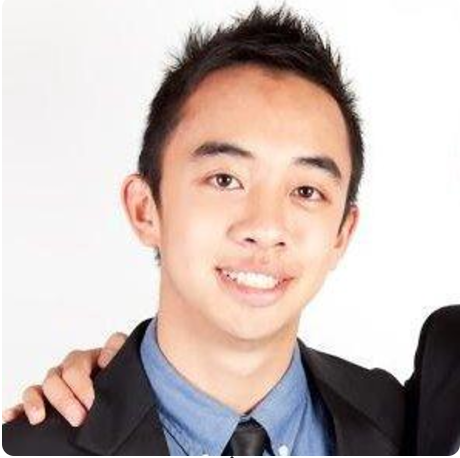
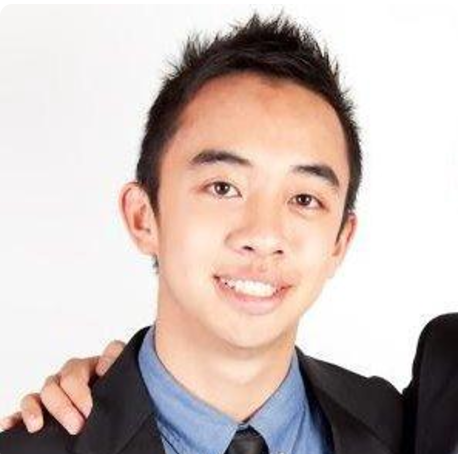
Initial changes for intro portion
- Change background image
- Add self portrait
- Change intro text
- CSS styling for intro-text portion

Changed region(s): [[0.0, 0.0, 1.0, 1.0], [0.2445, 0.3392, 0.3668, 0.6167], [0.3668, 0.6167, 0.3974, 0.6476]]

diff --git a/css/agency.min.css b/css/agency.min.css
@@ -1,0 +1,5 @@
+/*!
+ * Start Bootstrap - Agency v3.3.7+1 (http://startbootstrap.com/template-overviews/agency)
+ * Copyright 2013-2016 Start Bootstrap
+ * Licensed under MIT (https://github.com/BlackrockDigital/startbootstrap/blob/gh-pages/LICENSE)
+ */body{overflow-x:hidden;font-family:"Roboto Slab","Helvetica Neue",Helvetica,Arial,sans-serif}.text-muted{color:#777}.text-primary{color:#fed136}#justin-face{border-radius:50%;height:30px;width:30px}p{font-size:14px;line-height:1.75}p.large{font-size:16px}a,a.active,a:active,a:focus,a:hover{outline:0}a{color:#fed136}a.active,a:active,a:focus,a:hover{color:#fec503}h1,h2,h3,h4,h5,h6{font-family:Montserrat,"Helvetica Neue",Helvetica,Arial,sans-serif;text-transform:uppercase;font-weight:700}.img-centered{margin:0 auto}.bg-light-gray{background-color:#eee}.bg-darkest-gray{background-color:#222}.btn-primary{color:#fff;background-color:#fed136;border-color:#fed136;font-family:Montserrat,"Helvetica Neue",Helvetica,Arial,sans-serif;text-transform:uppercase;font-weight:700}.btn-primary.active,.btn-primary:active,.btn-primary:focus,.btn-primary:hover,.open .dropdown-toggle.btn-primary{color:#fff;background-color:#fec503;border-color:#f6bf01}.btn-primary.active,.btn-primary:active,.open .dropdown-toggle.btn-primary{background-image:none}.btn-primary.disabled,.btn-primary.disabled.active,.btn-primary.disabled:active,.btn-primary.disabled:focus,.btn-primary.disabled:hover,.btn-primary[disabled],.btn-primary[disabled].active,.btn-primary[disabled]:active,.btn-primary[disabled]:focus,.btn-primary[disabled]:hover,fieldset[disabled] .btn-primary,fieldset[disabled] .btn-primary.active,fieldset[disabled] .btn-primary:active,fieldset[disabled] .btn-primary:focus,fieldset[disabled] .btn-primary:hover{background-color:#fed136;border-color:#fed136}.btn-primary .badge{color:#fed136;background-color:#fff}.btn-xl{color:#fff;background-color:#fed136;border-color:#fed136;font-family:Montserrat,"Helvetica Neue",Helvetica,Arial,sans-serif;text-transform:uppercase;font-weight:700;border-radius:3px;font-size:18px;padding:20px 40px}.btn-xl.active,.btn-xl:active,.btn-xl:focus,.btn-xl:hover,.open .dropdown-toggle.btn-xl{color:#fff;background-color:#fec503;border-color:#f6bf01}.btn-xl.active,.btn-xl:active,.open .dropdown-toggle.btn-xl{background-image:none}.btn-xl.disabled,.btn-xl.disabled.active,.btn-xl.disabled:active,.btn-xl.disabled:focus,.btn-xl.disabled:hover,.btn-xl[disabled],.btn-xl[disabled].active,.btn-xl[disabled]:active,.btn-xl[disabled]:focus,.btn-xl[disabled]:hover,fieldset[disabled] .btn-xl,fieldset[disabled] .btn-xl.active,fieldset[disabled] .btn-xl:active,fieldset[disabled] .btn-xl:focus,fieldset[disabled] .btn-xl:hover{background-color:#fed136;border-color:#fed136}.btn-xl .badge{color:#fed136;background-color:#fff}.navbar-custom{background-color:#222;border-color:transparent}.navbar-custom .navbar-brand{color:#fed136;font-family:"Kaushan Script","Helvetica Neue",Helvetica,Arial,cursive}.navbar-custom .navbar-brand.active,.navbar-custom .navbar-brand:active,.navbar-custom .navbar-brand:focus,.navbar-custom .navbar-brand:hover{color:#fec503}.navbar-custom .navbar-collapse{border-color:rgba(255,255,255,.02)}.navbar-custom .navbar-toggle{background-color:#fed136;border-color:#fed136;font-family:Montserrat,"Helvetica Neue",Helvetica,Arial,sans-serif;text-transform:uppercase;color:#fff;font-size:12px}.navbar-custom .navbar-toggle:focus,.navbar-custom .navbar-toggle:hover{background-color:#fed136}.navbar-custom .nav li a{font-family:Montserrat,"Helvetica Neue",Helvetica,Arial,sans-serif;text-transform:uppercase;font-weight:400;letter-spacing:1px;color:#fff}.navbar-custom .nav li a:focus,.navbar-custom .nav li a:hover{color:#fed136;outline:0}.navbar-custom .navbar-nav>.active>a{border-radius:0;color:#fff;background-color:#fed136}.navbar-custom .navbar-nav>.active>a:focus,.navbar-custom .navbar-nav>.active>a:hover{color:#fff;background-color:#fec503}@media (min-width:768px){.navbar-custom{background-color:transparent;padding:25px 0;-webkit-transition:padding .3s;-moz-transition:padding .3s;transition:padding .3s;border:none}.navbar-custom .navbar-brand{font-size:2em;-webkit-transition:all .3s;-moz-transition:all .3s;transition:all .3s}.navbar-custom .navbar-nav>.active>a{border-radius:3px}}@media (min-width:768px){.navbar-custom.affix{background-color:#222;padding:10px 0}.navbar-custom.affix .navbar-brand{font-size:1.5em}}header{background-image:url(../img/header-bg.jpg);background-repeat:no-repeat;background-attachment:scroll;background-position:center center;-webkit-background-size:cover;-moz-background-size:cover;background-size:cover;-o-background-size:cover;text-align:center;color:#fff}header .intro-text{padding-top:100px;padding-bottom:50px}header .intro-text .intro-lead-in{font-family:"Droid Serif","Helvetica Neue",Helvetica,Arial,sans-serif;font-style:italic;font-size:22px;line-height:22px;margin-bottom:25px}header .intro-text .intro-heading{font-family:Montserrat,"Helvetica Neue",Helvetica,Arial,sans-serif;text-transform:uppercase;font-weight:700;font-size:50px;line-height:50px;margin-bottom:25px}@media (min-width:768px){header .intro-text{padding-top:300px;padding-bottom:200px}header .intro-text .intro-lead-in{font-family:"Droid Serif","Helvetica Neue",Helvetica,Arial,sans-serif;font-style:italic;font-size:40px;line-height:40px;margin-bottom:25px}header .intro-text .intro-heading{font-family:Montserrat,"Helvetica Neue",Helvetica,Arial,sans-serif;text-transform:uppercase;font-weight:700;font-size:75px;line-height:75px;margin-bottom:50px}}section{padding:100px 0}section h2.section-heading{font-size:40px;margin-top:0;margin-bottom:15px}section h3.section-subheading{font-size:16px;font-family:"Droid Serif","Helvetica Neue",Helvetica,Arial,sans-serif;text-transform:none;font-style:italic;font-weight:400;margin-bottom:75px}@media (min-width:768px){section{padding:150px 0}}.service-heading{margin:15px 0;text-transform:none}#portfolio .portfolio-item{margin:0 0 15px;right:0}#portfolio .portfolio-item .portfolio-link{display:block;position:relative;max-width:400px;margin:0 auto}#portfolio .portfolio-item .portfolio-link .portfolio-hover{background:rgba(254,209,54,.9);position:absolute;width:100%;height:100%;opacity:0;transition:all ease .5s;-webkit-transition:all ease .5s;-moz-transition:all ease .5s}#portfolio .portfolio-item .portfolio-link .portfolio-hover:hover{opacity:1}#portfolio .portfolio-item .portfolio-link .portfolio-hover .portfolio-hover-content{position:absolute;width:100%;height:20px;font-size:20px;text-align:center;top:50%;margin-top:-12px;color:#fff}#portfolio .portfolio-item .portfolio-link .portfolio-hover .portfolio-hover-content i{margin-top:-12px}#portfolio .portfolio-item .portfolio-link .portfolio-hover .portfolio-hover-content h3,#portfolio .portfolio-item .portfolio-link .portfolio-hover .portfolio-hover-content h4{margin:0}#portfolio .portfolio-item .portfolio-caption{max-width:400px;margin:0 auto;background-color:#fff;text-align:center;padding:25px}#portfolio .portfolio-item .portfolio-caption h4{text-transform:none;margin:0}#portfolio .portfolio-item .portfolio-caption p{font-family:"Droid Serif","Helvetica Neue",Helvetica,Arial,sans-serif;font-style:italic;font-size:16px;margin:0}#portfolio *{z-index:2}@media (min-width:767px){#portfolio .portfolio-item{margin:0 0 30px}}.timeline{list-style:none;padding:0;position:relative}.timeline:before{top:0;bottom:0;position:absolute;content:"";width:2px;background-color:#f1f1f1;left:40px;margin-left:-1.5px}.timeline>li{margin-bottom:50px;position:relative;min-height:50px}.timeline>li:after,.timeline>li:before{content:" ";display:table}.timeline>li:after{clear:both}.timeline>li .timeline-panel{width:100%;float:right;padding:0 20px 0 100px;position:relative;text-align:left}.timeline>li .timeline-panel:before{border-left-width:0;border-right-width:15px;left:-15px;right:auto}.timeline>li .timeline-panel:after{border-left-width:0;border-right-width:14px;left:-14px;right:auto}.timeline>li .timeline-image{left:0;margin-left:0;width:80px;height:80px;position:absolute;z-index:100;background-color:#fed136;color:#fff;border-radius:100%;border:7px solid #f1f1f1;text-align:center}.timeline>li .timeline-image h4{font-size:10px;margin-top:12px;line-height:14px}.timeline>li.timeline-inverted>.timeline-panel{float:right;text-align:left;padding:0 20px 0 100px}.timeline>li.timeline-inverted>.timeline-panel:before{border-left-width:0;border-right-width:15px;left:-15px;right:auto}.timeline>li.timeline-inverted>.timeline-panel:after{border-left-width:0;border-right-width:14px;left:-14px;right:auto}.timeline>li:last-child{margin-bottom:0}.timeline .timeline-heading h4{margin-top:0;color:inherit}.timeline .timeline-heading h4.subheading{text-transform:none}.timeline .timeline-body>p,.timeline .timeline-body>ul{margin-bottom:0}@media (min-width:768px){.timeline:before{left:50%}.timeline>li{margin-bottom:100px;min-height:100px}.timeline>li .timeline-panel{width:41%;float:left;padding:0 20px 20px 30px;text-align:right}.timeline>li .timeline-image{width:100px;height:100px;left:50%;margin-left:-50px}.timeline>li .timeline-image h4{font-size:13px;margin-top:16px;line-height:18px}.timeline>li.timeline-inverted>.timeline-panel{float:right;text-align:left;padding:0 30px 20px 20px}}@media (min-width:992px){.timeline>li{min-height:150px}.timeline>li .timeline-panel{padding:0 20px 20px}.timeline>li .timeline-image{width:150px;height:150px;margin-left:-75px}.timeline>li .timeline-image h4{font-size:18px;margin-top:30px;line-height:26px}.timeline>li.timeline-inverted>.timeline-panel{padding:0 20px 20px}}@media (min-width:1200px){.timeline>li{min-height:170px}.timeline>li .timeline-panel{padding:0 20px 20px 100px}.timeline>li .timeline-image{width:170px;height:170px;margin-left:-85px}.timeline>li .timeline-image h4{margin-top:40px}.timeline>li.timeline-inverted>.timeline-panel{padding:0 100px 20px 20px}}.team-member{text-align:center;margin-bottom:50px}.team-member img{margin:0 auto;border:7px solid #fff}.team-member h4{margin-top:25px;margin-bottom:0;text-transform:none}.team-member p{margin-top:0}aside.clients img{margin:50px auto}section#contact{background-color:#222;background-image:url(../img/map-image.png);background-position:center;background-repeat:no-repeat}section#contact .section-heading{color:#fff}section#contact .form-group{margin-bottom:25px}section#contact .form-group input,section#contact .form-group textarea{padding:20px}section#contact .form-group input.form-control{height:auto}section#contact .form-group textarea.form-control{height:236px}section#contact .form-control:focus{border-color:#fed136;box-shadow:none}section#contact ::-webkit-input-placeholder{font-family:Montserrat,"Helvetica Neue",Helvetica,Arial,sans-serif;text-transform:uppercase;font-weight:700;color:#eee}section#contact :-moz-placeholder{font-family:Montserrat,"Helvetica Neue",Helvetica,Arial,sans-serif;text-transform:uppercase;font-weight:700;color:#eee}section#contact ::-moz-placeholder{font-family:Montserrat,"Helvetica Neue",Helvetica,Arial,sans-serif;text-transform:uppercase;font-weight:700;color:#eee}section#contact :-ms-input-placeholder{font-family:Montserrat,"Helvetica Neue",Helvetica,Arial,sans-serif;text-transform:uppercase;font-weight:700;color:#eee}section#contact .text-danger{color:#e74c3c}footer{padding:25px 0;text-align:center}footer span.copyright{line-height:40px;font-family:Montserrat,"Helvetica Neue",Helvetica,Arial,sans-serif;text-transform:uppercase;text-transform:none}footer ul.quicklinks{margin-bottom:0;line-height:40px;font-family:Montserrat,"Helvetica Neue",Helvetica,Arial,sans-serif;text-transform:uppercase;text-transform:none}ul.social-buttons{margin-bottom:0}ul.social-buttons li a{display:block;background-color:#222;height:40px;width:40px;border-radius:100%;font-size:20px;line-height:40px;color:#fff;outline:0;-webkit-transition:all .3s;-moz-transition:all .3s;transition:all .3s}ul.social-buttons li a:active,ul.social-buttons li a:focus,ul.social-buttons li a:hover{background-color:#fed136}.btn.active,.btn:active,.btn:active:focus,.btn:focus{outline:0}.portfolio-modal .modal-dialog{margin:0;height:100%;width:auto}.portfolio-modal .modal-content{border-radius:0;background-clip:border-box;-webkit-box-shadow:none;box-shadow:none;border:none;min-height:100%;padding:100px 0;text-align:center}.portfolio-modal .modal-content h2{margin-bottom:15px;font-size:3em}.portfolio-modal .modal-content p{margin-bottom:30px}.portfolio-modal .modal-content p.item-intro{margin:20px 0 30px;font-family:"Droid Serif","Helvetica Neue",Helvetica,Arial,sans-serif;font-style:italic;font-size:16px}.portfolio-modal .modal-content ul.list-inline{margin-bottom:30px;margin-top:0}.portfolio-modal .modal-content img{margin-bottom:30px}.portfolio-modal .close-modal{position:absolute;width:75px;height:75px;background-color:transparent;top:25px;right:25px;cursor:pointer}.portfolio-modal .close-modal:hover{opacity:.3}.portfolio-modal .close-modal .lr{height:75px;width:1px;margin-left:35px;background-color:#222;transform:rotate(45deg);-ms-transform:rotate(45deg);-webkit-transform:rotate(45deg);z-index:1051}.portfolio-modal .close-modal .lr .rl{height:75px;width:1px;background-color:#222;transform:rotate(90deg);-ms-transform:rotate(90deg);-webkit-transform:rotate(90deg);z-index:1052}.portfolio-modal .modal-backdrop{opacity:0;display:none}::-moz-selection{text-shadow:none;background:#fed136}::selection{text-shadow:none;background:#fed136}img::selection{background:0 0}img::-moz-selection{background:0 0}body{webkit-tap-highlight-color:#fed136}

diff --git a/templates/index.html b/templates/index.html
@@ -11,25 +11,15 @@
 
     <title>Justin Ma</title>
 
-    <!-- Bootstrap Core CSS -->
-    <link href="static/css/bootstrap.min.css" rel="stylesheet">
+    <link href="static/css/bootstrap.css" rel="stylesheet">
 
-    <!-- Custom Fonts -->
-    <link href="static/css/font-awesome.min.css" rel="stylesheet" type="text/css">
+    <link href="static/css/font-awesome.css" rel="stylesheet" type="text/css">
     <link href="https://fonts.googleapis.com/css?family=Montserrat:400,700" rel="stylesheet" type="text/css">
     <link href='https://fonts.googleapis.com/css?family=Kaushan+Script' rel='stylesheet' type='text/css'>
     <link href='https://fonts.googleapis.com/css?family=Droid+Serif:400,700,400italic,700italic' rel='stylesheet' type='text/css'>
     <link href='https://fonts.googleapis.com/css?family=Roboto+Slab:400,100,300,700' rel='stylesheet' type='text/css'>
 
-    <!-- Theme CSS -->
-    <link href="static/css/agency.min.css" rel="stylesheet">
-
-    <!-- HTML5 Shim and Respond.js IE8 support of HTML5 elements and media queries -->
-    <!-- WARNING: Respond.js doesn't work if you view the page via file:// -->
-    <!--[if lt IE 9]>
-        <script src="https://oss.maxcdn.com/libs/html5shiv/3.7.0/html5shiv.js" integrity="sha384-0s5Pv64cNZJieYFkXYOTId2HMA2Lfb6q2nAcx2n0RTLUnCAoTTsS0nKEO27XyKcY" crossorigin="anonymous"></script>
-        <script src="https://oss.maxcdn.com/libs/respond.js/1.4.2/respond.min.js" integrity="sha384-ZoaMbDF+4LeFxg6WdScQ9nnR1QC2MIRxA1O9KWEXQwns1G8UNyIEZIQidzb0T1fo" crossorigin="anonymous"></script>
-    <![endif]-->
+    <link href="static/css/agency.css" rel="stylesheet">
 
     <link rel="icon" type="image/png" href="static/img/penguin.png">
 
@@ -71,18 +61,16 @@
                     </li>
                 </ul>
             </div>
-            <!-- /.navbar-collapse -->
         </div>
-        <!-- /.container-fluid -->
     </nav>
 
     <!-- Header -->
-    <header>
+    <header>  
         <div class="container">
             <div class="intro-text">
                 <img id="justin-face" src="static/img/me.png">
-                <div class="intro-lead-in">Welcome To Our Studio!</div>
-                <div class="intro-heading">It's Nice To Meet You</div>
+                <!--<div class="intro-heading">Justin Ma</div>-->
+                <<div class="intro-lead-in">Computer Science Major at UC Berkeley</div>
                 <a href="#services" class="page-scroll btn btn-xl">Tell Me More</a>
             </div>
         </div>
@@ -471,7 +459,6 @@
     </footer>
 
     <!-- Portfolio Modals -->
-    <!-- Use the modals below to showcase details about your portfolio projects! -->
 
     <!-- Portfolio Modal 1 -->
     <div class="portfolio-modal modal fade" id="portfolioModal1" tabindex="-1" role="dialog" aria-hidden="true">

diff --git a/static/css/agency.css b/static/css/agency.css
@@ -13,6 +13,12 @@ body {
 .text-primary {
   color: #fed136;
 }
+#justin-face {
+  margin-bottom: 20px;
+  border-radius: 50%;
+  height : 210px;
+  width : 210px;
+}
 
 p {
   font-size: 14px;
@@ -239,7 +245,7 @@ header {
   color: white;
 }
 header .intro-text {
-  padding-top: 100px;
+  padding-top: 70px;
   padding-bottom: 50px;
 }
 header .intro-text .intro-lead-in {
@@ -259,8 +265,8 @@ header .intro-text .intro-heading {
 }
 @media (min-width: 768px) {
   header .intro-text {
-    padding-top: 300px;
-    padding-bottom: 200px;
+    padding-top: 230px;
+    padding-bottom: 340px;
   }
   header .intro-text .intro-lead-in {
     font-family: "Droid Serif", "Helvetica Neue", Helvetica, Arial, sans-serif;
